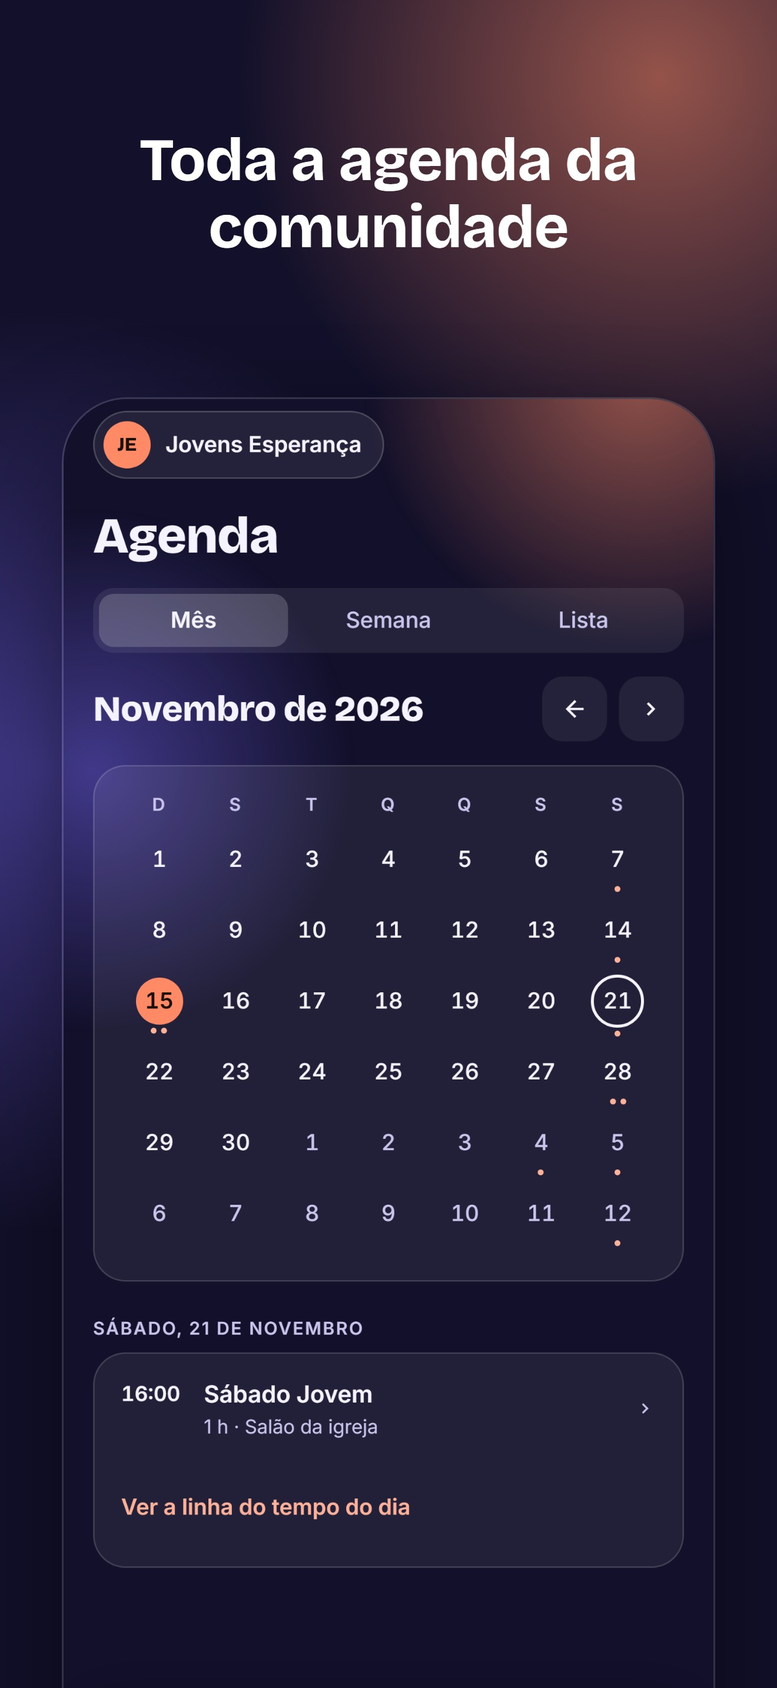
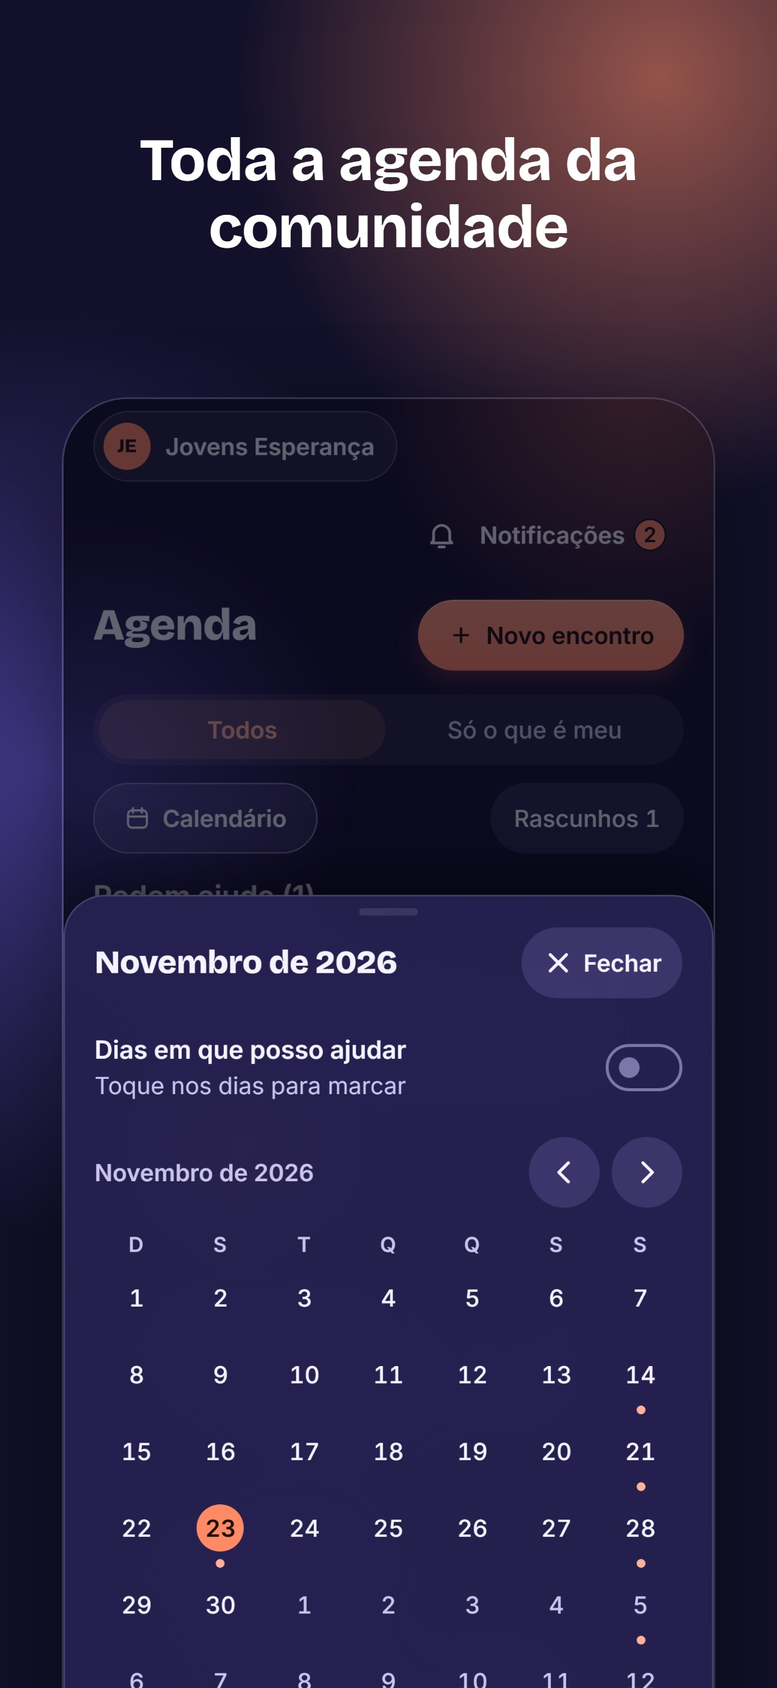
UJ-F21-E37: capturas das lojas refeitas com a Direção A e registro de que a Apple já aprovou o 1.0.0 (build 1)

diff --git a/scripts/lojas/capturas.ts b/scripts/lojas/capturas.ts
@@ -19,7 +19,7 @@ import { mkdirSync, readdirSync, readFileSync, rmSync } from 'node:fs'
 import { join, resolve } from 'node:path'
 import { fileURLToPath } from 'node:url'
 import { dataNoFuso } from '@uj/dominio'
-import { chromium, type BrowserContext, type Locator, type Page } from 'playwright'
+import { chromium, type BrowserContext, type Page } from 'playwright'
 import { proximoSabado } from '../../apps/api/src/cli/demonstracao-plano.ts'
 
 const RAIZ = join(import.meta.dirname, '..', '..')
@@ -62,6 +62,19 @@ async function entrar(page: Page, email: string) {
   await page.waitForURL((u) => !u.pathname.endsWith('/entrar'), { timeout: 20000 })
   await assentar(page)
   // Primeira entrada pode abrir o mapa da missão: pula para chegar ao Início.
+  // Base recém-criada: a conta fictícia de admin ainda não aceitou o Termo do Administrador.
+  const aceitar = page.getByRole('button', { name: /^Aceitar e continuar/ })
+  if (await aceitar.isVisible({ timeout: 3000 }).catch(() => false)) {
+    await page.getByRole('checkbox', { name: /^Li e aceito/ }).click()
+    await aceitar.click()
+    await assentar(page)
+  }
+  // O aviso de mudança dos Termos ocuparia o Início inteiro: a conta fictícia já leu.
+  const entendi = page.getByRole('button', { name: 'Entendi', exact: true })
+  if (await entendi.isVisible({ timeout: 2000 }).catch(() => false)) {
+    await entendi.click()
+    await assentar(page)
+  }
   const pular = page.getByRole('button', { name: /Pular/ })
   if (await pular.isVisible().catch(() => false)) {
     await pular.click()
@@ -93,49 +106,27 @@ async function rolarAteOFim(page: Page) {
   await page.waitForTimeout(800)
 }
 
-/**
- * Rola o mínimo para o alvo terminar acima da barra de abas flutuante (66 de
- * altura a 12 do fim, mais um respiro). Em tela alta, não rola nada.
- */
-async function mostrarAcimaDaBarraDeAbas(page: Page, alvo: Locator) {
-  await alvo.evaluate((el) => {
-    const folga = 96
-    let pai = el.parentElement
-    while (
-      pai &&
-      !(pai.scrollHeight > pai.clientHeight + 4 && getComputedStyle(pai).overflowY !== 'visible')
-    ) {
-      pai = pai.parentElement
-    }
-    const falta = el.getBoundingClientRect().bottom - (window.innerHeight - folga)
-    if (pai && falta > 0) pai.scrollTop += falta
-  })
-  await page.waitForTimeout(800)
-}
-
-/** "sábado, 21 de novembro": o começo do nome do dia na grade da Agenda (`rotuloDoDia`). */
-function nomeDoSabado(sabado: string): RegExp {
+/** "28 de novembro": o dia e o mês como a lista da Agenda os escreve por extenso. */
+function diaPorExtenso(sabado: string): string {
   const mes = new Intl.DateTimeFormat('pt-BR', { month: 'long', timeZone: 'UTC' }).format(
     new Date(`${sabado}T12:00:00Z`),
   )
-  return new RegExp(`^sábado, ${Number(sabado.slice(8, 10))} de ${mes}`)
+  return `${Number(sabado.slice(8, 10))} de ${mes}`
 }
 
-/** Agenda no próximo sábado com eventos: a lista do dia aparece abaixo do mês. */
-async function agendaNoSabado(page: Page, sabado: string) {
+/** A Agenda é uma lista por dia (D74): abrir a tela já mostra o próximo sábado, sem clicar em dia. */
+async function agendaNoSabado(page: Page, _sabado: string) {
   await irPara(page, '/agenda')
-  await page
-    .getByRole('button', { name: nomeDoSabado(sabado) })
-    .first()
-    .click()
-  await assentar(page)
 }
 
-/** O Sábado Jovem do próximo sábado, aberto pela lista do dia na Agenda (nunca uma cópia de hoje). */
+/** O Sábado Jovem publicado do próximo sábado, aberto pela lista da Agenda (nunca uma cópia de hoje). */
 async function abrirSabadoJovem(page: Page, sabado: string): Promise<string> {
   await agendaNoSabado(page, sabado)
   await page
-    .getByRole('button', { name: /^Sábado Jovem, / })
+    .getByRole('button', {
+      // Só o publicado: o rótulo dos rascunhos termina com "Rascunho.".
+      name: new RegExp(`^Sábado Jovem\\. sábado, ${diaPorExtenso(sabado)} de \\d{4}(?!.*Rascunho)`),
+    })
     .first()
     .click()
   await page.waitForURL(/\/evento\/[^/]+$/, { timeout: 15000 })
@@ -160,36 +151,47 @@ async function confirmarNoDialogo(page: Page, botao: string) {
 
 /**
  * O dia do evento, só na prévia: cópia de hoje do Sábado Jovem, publicada,
- * com o ao vivo no Louvor e três presenças. O início fica 8 min antes de
- * agora: as Boas-vindas (5 min) já deveriam ter acabado e o Louvor começa
- * com uns 3 min de atraso, como no roteiro (docs/lojas/capturas.md, 4.3).
+ * com o ao vivo no Louvor e três presenças. O início é daqui a 2 min (a
+ * tela não aceita horário que já passou); o ao vivo é iniciado e avançado
+ * até o Louvor logo em seguida (docs/lojas/capturas.md, 4.3).
  */
 async function prepararODiaDoEvento(page: Page, origem: string): Promise<string> {
   const agora = Date.now()
   await irPara(page, `/evento/${origem}/duplicar`)
-  await page.getByLabel('Data', { exact: true }).fill(dataNoFuso(new Date(agora), FUSO))
-  // Arredonda para o minuto mais próximo, contando os ~15 s até o Louvor começar.
-  const inicio = new Date(Math.round((agora + 15_000 - 8 * 60_000) / 60_000) * 60_000)
-  await page.getByLabel('Hora', { exact: true }).fill(horaNoFuso(inicio))
-  await page.getByRole('button', { name: 'Criar a cópia', exact: true }).click()
+  // "Quando?" (D84): a opção "Outra data" mostra os campos de data e de hora do navegador.
+  await page.getByRole('radio', { name: /^Outra data/ }).click()
+  await page.locator('input[type="date"]').fill(dataNoFuso(new Date(agora), FUSO))
+  // Um horário que já passou não é aceito: começa daqui a 2 min e o ao vivo é iniciado pela tela.
+  const inicio = new Date(Math.ceil((agora + 2 * 60_000) / 60_000) * 60_000)
+  await page.locator('input[type="time"]').fill(horaNoFuso(inicio))
+  // Salva como rascunho (a cópia nasce na data de hoje) e publica pela tela do encontro.
+  await page.getByRole('button', { name: 'Salvar rascunho', exact: true }).click()
   await page.waitForURL((u) => /\/evento\/[^/]+$/.test(u.pathname) && !u.pathname.endsWith(origem))
   await assentar(page)
   const copia = idDoEvento(page)
 
-  await page.getByRole('button', { name: 'Publicar', exact: true }).first().click()
-  await confirmarNoDialogo(page, 'Publicar')
-  await page.getByRole('button', { name: 'Abrir ao vivo', exact: true }).waitFor()
+  // Publica direto, sem diálogo: o aviso "Publicado. N pessoas foram avisadas." confirma.
+  await page.getByRole('button', { name: /^Publicar e avisar/ }).click()
+  await page
+    .getByText(/^Publicado\./)
+    .first()
+    .waitFor()
+  await assentar(page)
 
   await irPara(page, `/evento/${copia}/ao-vivo`)
-  await page.getByRole('button', { name: 'Iniciar', exact: true }).click()
+  await page.getByRole('button', { name: 'Iniciar o encontro', exact: true }).click()
   await assentar(page)
-  await page.getByRole('button', { name: 'Avançar etapa', exact: true }).click()
+  await page.getByRole('button', { name: /^Próxima etapa/ }).click()
   await assentar(page)
 
   await irPara(page, `/evento/${copia}/checkin`)
   for (const nome of ['Beatriz Moraes', 'Camila Nunes', 'Davi Monteiro']) {
+    // O "Chegou" de cada linha não é um botão nomeado: acha o texto "Chegou" dentro da linha da pessoa.
     await page
-      .getByRole('button', { name: `Chegou: ${nome}. Marcar presença`, exact: true })
+      .locator(
+        `xpath=//*[normalize-space(text())="${nome}"]/ancestor::*[.//*[normalize-space(text())="Chegou"]][1]//*[normalize-space(text())="Chegou"]`,
+      )
+      .first()
       .click()
     await page.waitForTimeout(900)
   }
@@ -201,11 +203,19 @@ async function encerrarODiaDoEvento(page: Page, copia: string) {
   await irPara(page, `/evento/${copia}/ao-vivo`)
   await page.getByRole('button', { name: 'Mais ações', exact: true }).click()
   await page.getByRole('button', { name: /^Encerrar o ao vivo/ }).click()
-  await confirmarNoDialogo(page, 'Encerrar')
+  // Sem diálogo: há 10 segundos para desfazer (D74); espera a janela passar.
+  await page.waitForTimeout(11_000)
   await irPara(page, `/evento/${copia}`)
-  // Sem "Mais" (D74): "Encerrar" é uma linha das "Outras coisas" do Resumo, lida como "Encerrar. O encontro já aconteceu".
+  // "Encerrar" é uma linha das "Outras coisas" do Resumo, lida como "Encerrar. O encontro já aconteceu".
   await page.getByRole('button', { name: /^Encerrar\. / }).click()
-  await confirmarNoDialogo(page, 'Encerrar encontro')
+  if (
+    await page
+      .getByRole('alertdialog')
+      .isVisible({ timeout: 3000 })
+      .catch(() => false)
+  ) {
+    await confirmarNoDialogo(page, 'Encerrar encontro')
+  }
 }
 
 /**
@@ -217,7 +227,8 @@ async function renomearComunidade(page: Page, nome: string) {
   const campo = page.getByLabel('Nome da comunidade', { exact: true })
   if ((await campo.inputValue()) === nome) return
   await campo.fill(nome)
-  await page.getByRole('button', { name: /^Salvar/ }).click()
+  // A barra de abas flutuante cobre o botão em tela baixa: o clique vai direto no elemento.
+  await page.getByRole('button', { name: /^Salvar/ }).evaluate((el) => (el as HTMLElement).click())
   await assentar(page)
 }
 
@@ -276,10 +287,10 @@ export const TELAS: Tela[] = [
   {
     arquivo: '07-agenda',
     abrir: async (p, c) => {
+      // A lista já é a 04; aqui, o Calendário do mês com os encontros marcados.
       await agendaNoSabado(p, c.sabado)
-      // Em 360 × 640 a lista do dia fica abaixo do mês: sobe só o que falta.
-      const fimDaLista = p.getByRole('button', { name: /^Ver a linha do tempo de / }).first()
-      await mostrarAcimaDaBarraDeAbas(p, fimDaLista)
+      await p.getByRole('button', { name: 'Calendário', exact: true }).click()
+      await assentar(p)
     },
   },
   { arquivo: '08-equipe', abrir: (p) => irPara(p, '/comunidade') },

diff --git a/docs/PENDENCIAS-HUMANAS.md b/docs/PENDENCIAS-HUMANAS.md
@@ -35,3 +35,4 @@ Em 17/11/2026, o dono escolheu aproveitar o Gmail que recebe o encaminhamento do
 | PH-15 | F21  | Autorizar a implantação da página `/entrar/:codigo` (API) e da web na produção e na homologação, e um novo build iOS e Android com a rota `entrar/[codigo]` e o `intent-filter` `/entrar/` (D58). Até lá, o link do código abre o app antigo em "Página não encontrada" e, sem o app, a página 404 do servidor.                                                                                                                                                                                                                                                                                                                                                                                                                                                                                                                                                                                                                                                                                                                                                                                                                                                                                                                                                                                                                                                                                                                                                                                                                                                                                                                                                                                                                                                                                                                                                                                                                                                                                                                                                                                                                                                                                                                                                                                                                                                                                                                                                                                                                                                                      | Link do código da comunidade funcionando no celular                                                     | aberta       |
 | PH-16 | F21  | Abrir a folha **Comunidades** (Perfil, linha "Comunidades", e a pílula da Comunidade) no TestFlight do build novo e conferir que ela mostra o título, a lista e as ações em vez de ficar em branco (D77: o conserto da altura da folha é hipótese, sem prova em aparelho); conferir também "Como conseguir um convite". Se ainda abrir em branco, mandar a captura. Antes, **autorizar a implantação da API** (migração 0030 e as rotas de limpar encontros e excluir comunidade) e um novo build.                                                                                                                                                                                                                                                                                                                                                                                                                                                                                                                                                                                                                                                                                                                                                                                                                                                                                                                                                                                                                                                                                                                                                                                                                                                                                                                                                                                                                                                                                                                                                                                                                                                                                                                                                                                                                                                                                                                                                                                                                                                                                   | Dar o conserto da folha como verificado                                                                 | aberta       |
 | PH-17 | F21  | Revisão jurídica dos textos novos da exclusão de comunidade (parte da **PH-11**, D77 e ADR 0009): "O que some", "O que continua" e "Quanto tempo leva" da tela Excluir esta comunidade, o aviso genérico "Uma comunidade foi marcada para exclusão" e o prazo de 30 dias. A política de privacidade e os termos NÃO foram alterados (o caso 8 de `privacidade/exclusao-de-conta.md` já prometia a exclusão ao fim da carência).                                                                                                                                                                                                                                                                                                                                                                                                                                                                                                                                                                                                                                                                                                                                                                                                                                                                                                                                                                                                                                                                                                                                                                                                                                                                                                                                                                                                                                                                                                                                                                                                                                                                                                                                                                                                                                                                                                                                                                                                                                                                                                                                                      | Liberar a exclusão de comunidade às lojas como funcionalidade revisada                                  | aberta       |
+| PH-18 | F21  | Decidir o que fazer com a versão 1.0.0 da Apple, que a revisão **já aprovou** com o build 1 (15/11/2026, app antigo) e aguarda sua liberação manual. Opções: (a) não liberar e enviar uma versão 1.0.1 com o build atual para nova revisão (recomendado, o build 1 é de antes do redesign); (b) liberar o 1.0.0 como está. Eu preparo a 1.0.1 (capturas novas, build 14 ou mais novo, notas) assim que você escolher; enviar à revisão e liberar continuam dependendo do seu "sim".                                                                                                                                                                                                                                                                                                                                                                                                                                                                                                                                                                                                                                                                                                                                                                                                                                                                                                                                                                                                                                                                                                                                                                                                                                                                                                                                                                                                                                                                                                                                                                                                                                                                                                                                                                                                                                                                                                                                                                                                                                                                                                  | Publicar o app atual na App Store                                                                       | aberta       |

diff --git a/docs/lojas/estado-das-lojas.md b/docs/lojas/estado-das-lojas.md
@@ -331,3 +331,10 @@ A variante com barra final (`/privacidade/`, `/excluir-conta/`, `/termos/`) resp
 - **Conferências do AAB 17:** `jarsigner -verify` devolve `jar verified`; certificado SHA-256 `55:93:38:FC:...:C0:CB:47`, igual ao da chave de upload; o pacote JS embutido tem a API `https://unijovem.solerte.com.br` e nenhum `10.0.2.2` nem endereço de homologação; o manifesto não tem `usesCleartextTraffic`. O código de versão 17 vem do init de assinatura do Gradle; não foi relido do manifesto do pacote.
 - **Armadilha achada nesta rodada (não repetir):** antes do build de loja, `C:/ujb` tinha sido usado para um APK de teste do emulador (API em `http://10.0.2.2:8090`, `usesCleartextTraffic` ligado no manifesto). O Gradle reaproveitou o pacote JS antigo (`app/build/generated/assets/react/release`), e o primeiro AAB "17" saiu com o endereço do emulador. Foi apagado e refeito; antes de aceitar um AAB, conferir o endereço da API dentro do `index.android.bundle`.
 - **Não enviado ao Play:** o envio é do dono (Teste interno > Criar nova versão com o arquivo acima).
+
+### 7.13 Capturas refeitas e correção do estado da Apple (23/11/2026)
+
+- **Correção importante:** as seções acima dizem "nada enviado para revisão" na Apple. Isso deixou de ser verdade. Lido pela API do App Store Connect em 23/11/2026 (somente leitura): a versão 1.0.0 (id `a672d0a1-c28f-4450-9154-3a3fccdc2837`) está em `PENDING_DEVELOPER_RELEASE`, isto é, aprovada pela Apple e aguardando a liberação manual (`releaseType` MANUAL). O envio à revisão (`reviewSubmissions`) consta como `COMPLETE`, submetido em 16/11/2026 às 14:30 UTC. O build anexado é o **1** (enviado em 15/11/2026, `VALID`), anterior ao redesign Direção A. Nenhum registro deste envio foi feito nos docs na época: ficou sem evidência local.
+- **Consequência:** liberar essa versão publicaria o app antigo. O build 14, que está no TestFlight, não pode ser anexado a uma versão já aprovada. Para publicar o app atual é preciso uma nova versão (1.0.1) com o build novo e uma nova revisão. Decisão do dono: PH-18 em `docs/PENDENCIAS-HUMANAS.md`.
+- **Capturas das lojas refeitas** com o app atual (Direção A), nos três tamanhos: `docs/lojas/capturas/final/apple-6.3` (1206 x 2622), `apple-6.9` (1320 x 2868) e `play` (1080 x 1920), 10 telas cada, dados fictícios da comunidade "Jovens Esperança". As anteriores (15/11/2026) eram do app antigo. Roteiro `scripts/lojas/capturas.ts` atualizado para a Agenda em lista, o "Quando?" da cópia, "Publicar e avisar" sem diálogo, o ao vivo novo e o aceite do Termo do Administrador na base recém-criada.
+- **Não enviadas às lojas:** a versão aprovada da Apple não aceita troca de capturas, e o Google Play ainda não recebeu o conjunto novo.

diff --git a/docs/STATUS.md b/docs/STATUS.md
@@ -2,6 +2,12 @@
 
 Atualizado em 23/11/2026.
 
+## Capturas das lojas refeitas e Apple já aprovou o 1.0.0, em 23/11/2026 (E37)
+
+- **Capturas:** 10 telas nos três tamanhos (Apple 6,3" e 6,9", Google 1080 x 1920), com o app atual e dados fictícios, em `docs/lojas/capturas/final/`. O roteiro `scripts/lojas/capturas.ts` foi atualizado ao app novo. `npm run verificar` verde.
+- **Achado (somente leitura na API do App Store Connect):** a versão 1.0.0 está `PENDING_DEVELOPER_RELEASE`, aprovada com o build 1 (15/11/2026, app antigo), aguardando liberação manual. Não foi liberada. Detalhes em `docs/lojas/estado-das-lojas.md`, seção 7.13, e decisão do dono na PH-18.
+- **Próximo passo:** o dono decide a PH-18 (nova versão 1.0.1 com o build atual, recomendado). O AAB 17 segue esperando o arrastar no Play (a ferramenta de upload do Chrome limita a 10 MB e o ambiente negou o desvio). Skill `publicar-apps` criada em `~/.claude/skills/`.
+
 ## Marcar o próximo encontro do zero e área tocável visível, em 23/11/2026 (D84)
 
 - Pedido do dono olhando o iPhone: "ao marcar próximo encontro eu quero fazer do zero", roteiro de 7 etapas opcional, "Banda e equipe" sem sentido, a área clicável do cartão do Início invisível e "Editar" como primeiro clique, virando seção dentro do encontro. Decisão D84 em [DECISOES.md](DECISOES.md). Sem migração, sem API, sem dependência nova. **Build novo gerado em 23/11/2026: iOS 14 enviado ao TestFlight (VALID) e Android 17 pronto em `tmp/uni-jovem-1.0.0-17.aab` (o dono arrasta no Play); ver `docs/lojas/estado-das-lojas.md`, seção 7.12.**

diff --git a/docs/lojas/capturas.md b/docs/lojas/capturas.md
@@ -1,6 +1,6 @@
 # Capturas de tela e roteiro de dados fictícios
 
-- **Versão:** 1, de 14/11/2026.
+- **Versão:** 2, de 23/11/2026 (capturas refeitas com a Direção A; o roteiro de geração acompanhou a Agenda em lista, o ao vivo novo e a cópia "Quando?").
 - **Regra de ouro:** captura publicada numa loja não tem como ser recolhida. Só dados fictícios, nunca nome, telefone ou pedido de oração de pessoa real (regra 5 do `CLAUDE.md`).
 - **Regra da Apple (2.3.3):** captura mostra o app em uso, não só a tela de entrada ou a abertura. Texto sobreposto é permitido, desde que descreva o que o app faz de fato.
 
